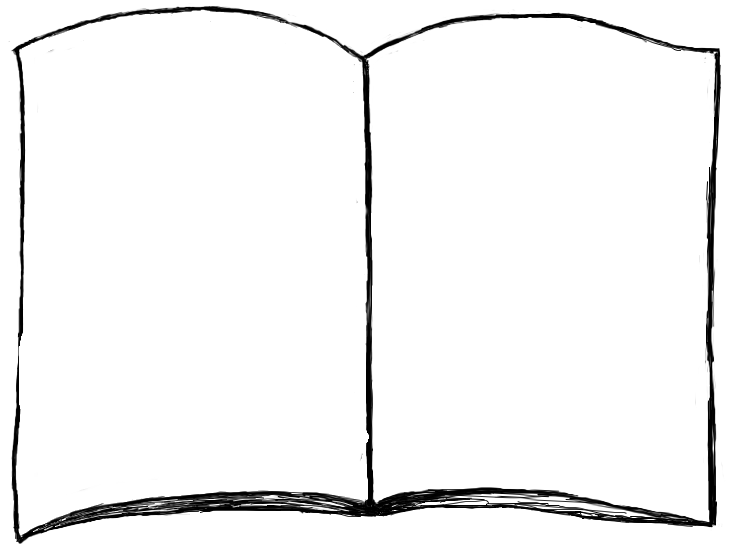
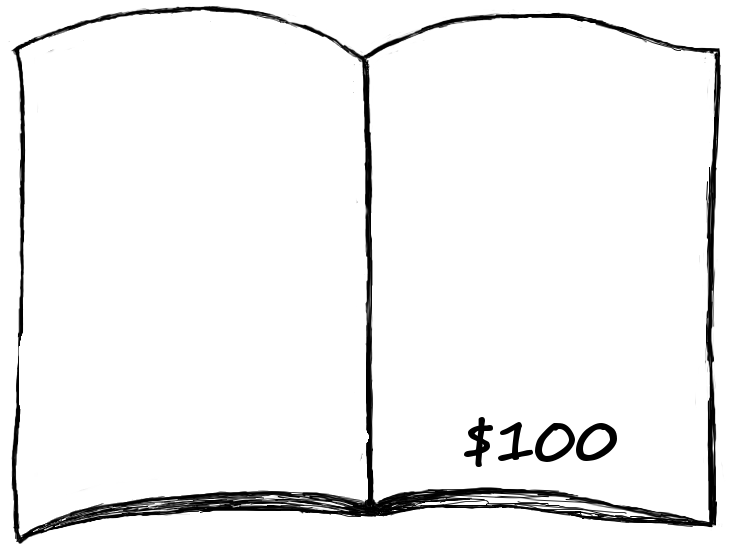
added win condition

Changed region(s): [[0.632, 0.7405, 0.8427, 0.8639]]

diff --git a/index.html b/index.html
@@ -111,6 +111,7 @@
             game.load.image('pruno', 'assets/images/pruno.png');
             game.load.image('catnip', 'assets/images/catnip.png');
 
+            game.load.image('spoon', 'assets/images/spoon.png');
             
             game.load.image('doubledown', 'assets/images/doubledown.png');
 
@@ -172,6 +173,14 @@
             lefteye = petButton.addChild(game.make.sprite(-300, -158, 'eyel'));
             lefteye.anchor.set(0.5);
             lefteye.scale.setTo(1, 1);
+
+
+
+            winspoon= game.add.sprite(300, 300, 'spoon');
+            winspoon.inputEnabled = true;
+            winspoon.anchor.set(0.5);
+            winspoon.scale.setTo(1);
+            winspoon.visible = false;
 
             catGraphics = petButton.addChild(game.make.sprite(0, 0, 'catimages'));
             catGraphics.anchor.set(0.5);
@@ -379,6 +388,20 @@
             storeSecondPage.visible = false;
             storeSecondPage.inputEnabled = true;
 
+            storespoon = storeSecondPage.addChild(game.make.sprite(180, -20, 'spoon'));
+            storespoon.anchor.set(0.5);
+            storespoon.scale.setTo(1);
+            storespoon.inputEnabled = true;
+            storespoon.input.useHandCursor = true;
+            storespoon.events.onInputDown.add(_ => {
+                if(wallet.value > 100){
+                storespoon.visible = false;
+
+                winspoon.visible = true;
+                winspoon.events.onInputDown.add(_ => {alert("you win")}, this);
+                }
+            }, this);
+
             flipButton = game.make.sprite(230, 170,'flip');
             flipButton.inputEnabled = true;
             flipButton.input.priorityID = 1;
@@ -414,6 +437,8 @@
             tunaItem.visible = lowtieswin;
             cigsItem.visible = hightieswin;
             prunoItem.visible = betmax == 5;
+            winspoon.x = game.input.x;
+            winspoon.y = game.input.y;
         }
 
         function getDeck() {
